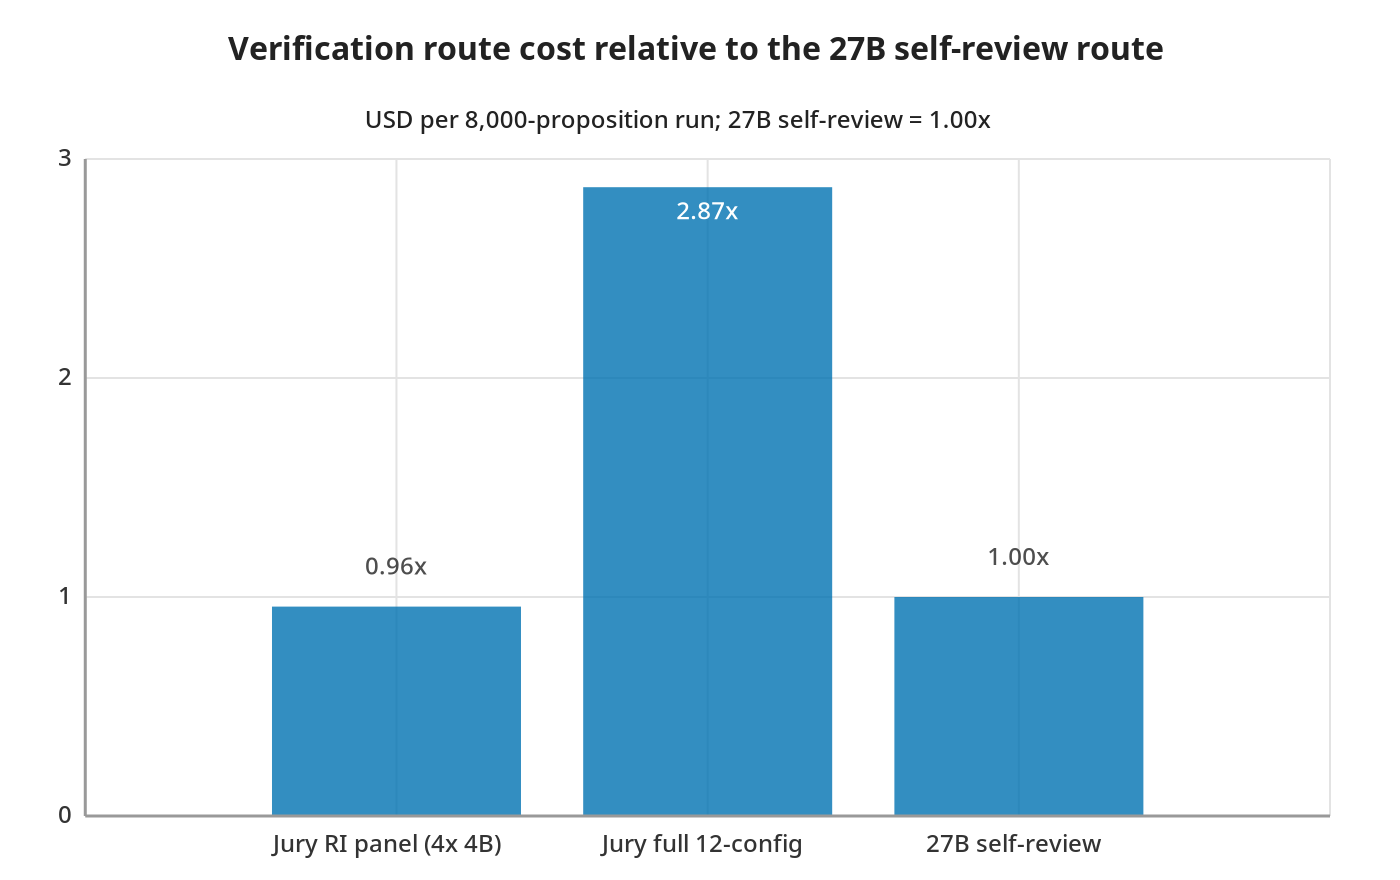
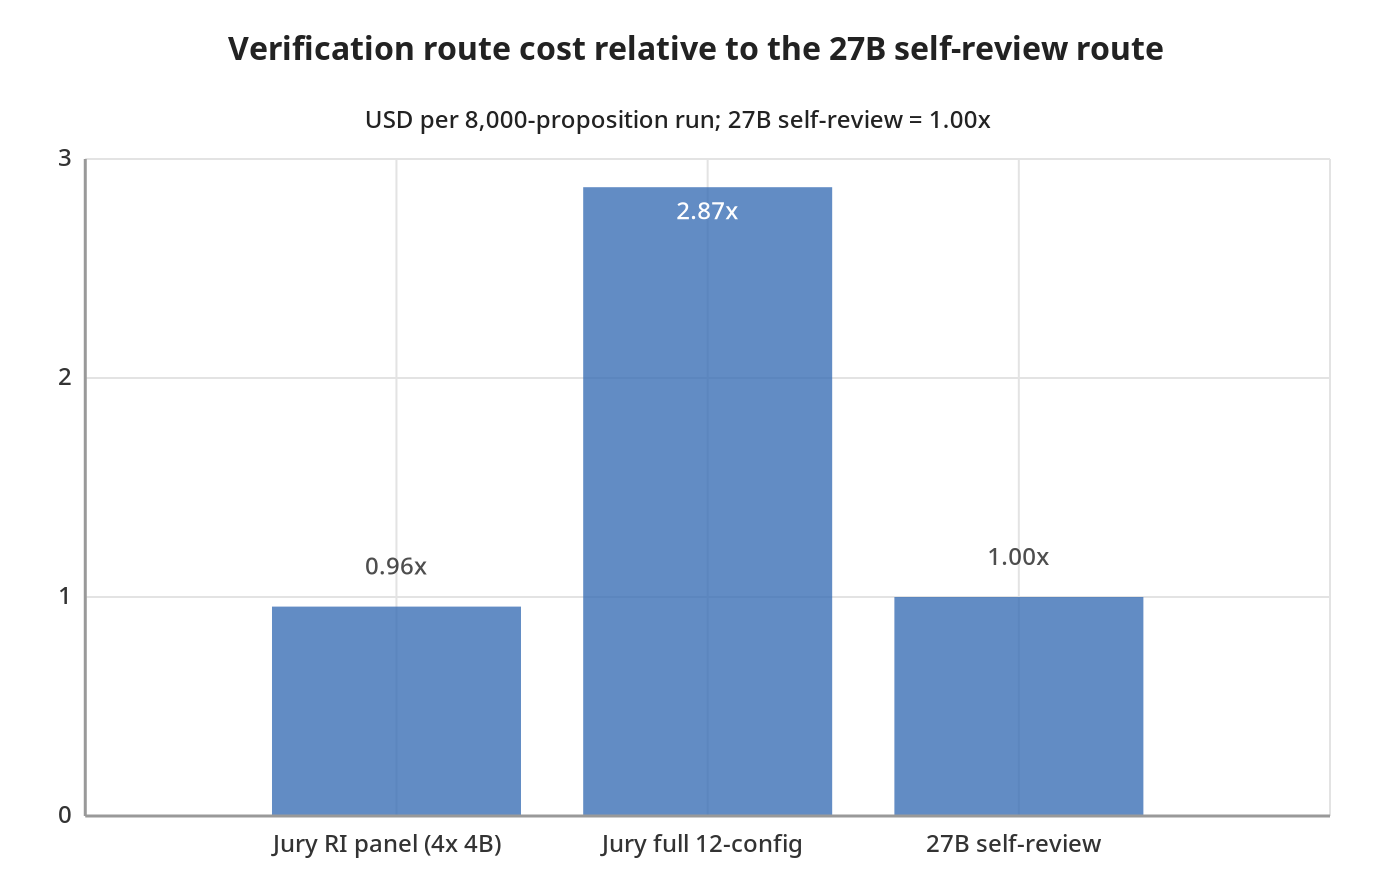
Figures PDF-only (injected at build); uniform color on cost figure

Changed region(s): [[0.1843, 0.2148, 0.8293, 0.9511]]

diff --git a/tools/paper_pdf.py b/tools/paper_pdf.py
@@ -113,10 +113,43 @@ hr { border: none; border-top: 0.6pt solid #ccc; margin: 1.4em 0; }
 """
 
 
+# Figures are PDF-only: injected at build time, never in draft-v4.md.
+# Each entry is (unique anchor in the md source, figure html to insert after it).
+FIGURES = [
+    (
+        "| full | base_zeroshot (ref) | 0.17434 | 0.3325 | +0.15816 | (not computed; ref arm) | ref |",
+        """<div class="figure">
+<img src="figures/fig1-cells.png" alt="Calibrated delta over the frozen bar, all six pre-registered cells">
+<div class="figcap">Figure 1. Calibrated delta over the frozen model-free bar, all six pre-registered cells (v2, 8,000 claims, all fits frozen from v1). Dashed line: the pre-registered GO threshold (+0.02 nats). All four test cells are green; the base_zeroshot cells are the reference arm. Numbers: eval_v2.json.</div>
+</div>""",
+    ),
+    (
+        "**Verdict: PASS (branch b).**",
+        """<div class="figure">
+<img src="figures/fig3-fcr.png" alt="False-claim rate by verification route">
+<div class="figcap">Figure 2. False-claim rate by verification route on the 591 gateable claims. Both routes co-fail the same two unsupported claims (0/2 catch); the bootstrap CI of the difference, [0.0, 5e-05], spans zero, so the gate passes via the registered branch (b), cost, not catch. Numbers: gate_analysis.json.</div>
+</div>""",
+    ),
+    (
+        "excluded from the comparison, as registered.",
+        """<div class="figure">
+<img src="figures/fig2-cost.png" alt="Verification route cost relative to the 27B self-review route">
+<div class="figcap">Figure 3. Verification-route cost per 8,000 claims (USD, token-proxy pricing), relative to the 27B self-review route (1.00x). The full 12-config panel is the reference run, not the gate arm; the gate arm is the reason_included panel at 0.96x (0.781x length-adjusted). Numbers: gate_analysis.json.</div>
+</div>""",
+    ),
+]
+
+
 def main() -> None:
     text = SRC.read_text(encoding="utf-8")
     # Drop the DRAFT NOTES comment block (and any other html comments).
     text = re.sub(r"<!--.*?-->", "", text, flags=re.S).strip()
+
+    # Inject the PDF-only figures after their unique anchors.
+    for anchor, fig in FIGURES:
+        if anchor not in text:
+            raise SystemExit(f"figure anchor not found: {anchor[:60]!r}")
+        text = text.replace(anchor, f"{anchor}\n\n{fig}", 1)
 
     # Split off the title block: everything before the first "## " heading.
     idx = text.index("\n## ")

diff --git a/paper/draft-v4.md b/paper/draft-v4.md
@@ -13,7 +13,7 @@
       reserved (DOI 404s until published) - publish the Zenodo record before submission.
     * 2080 Ti row in §6 is an estimate, not a measurement (kept labeled as such).
     * Affiliation set: Main Lobe Labs (both authors, single affiliation marker).
-    * Figures 1-3 added (charted, paper/figures/): six-cell deltas, FCR by route, route cost.
+    * Figures 1-3 (charted, paper/figures/) are PDF-only: injected by tools/paper_pdf.py at build time, not in this .md.
   - All numbers below were copied verbatim from:
     * runs/2026-08-28-v2-jury/eval_v2.json
     * runs/2026-08-29-v2-27b/gate_analysis.json
@@ -211,11 +211,6 @@ On the full 8,000-claim v2 corpus, with every fit frozen from v1:
 | full | votes_only | 0.17865 | 0.3325 | +0.15385 | (excl. 0) | GO |
 | full | base_zeroshot (ref) | 0.17434 | 0.3325 | +0.15816 | (not computed; ref arm) | ref |
 
-<div class="figure">
-<img src="figures/fig1-cells.png" alt="Calibrated delta over the frozen bar, all six pre-registered cells">
-<div class="figcap">Figure 1. Calibrated delta over the frozen model-free bar, all six pre-registered cells (v2, 8,000 claims, all fits frozen from v1). Dashed line: the pre-registered GO threshold (+0.02 nats). All four test cells are green; the base_zeroshot cells are the reference arm. Numbers: eval_v2.json.</div>
-</div>
-
 **P8: TRUE.** All four pre-registered test cells are green. (The registration calls the full bar a continuity check with no separate GO, while its decision-matrix line applies the same GO rule to every cell; the artifact computes go = true for both full-bar cells, and we report that label.) The headline delta is an order of magnitude beyond the gate and beyond the v1 scale: the v1 smoke test of the identical tool on frozen v1 data (content-only bar) gave +0.093 reason_included / +0.097 votes_only; the frozen calibration, applied to a corpus 6.7× larger and 6 months wider, more than doubles the headline margin. Raw (uncalibrated) EM log-loss is 0.30796 / 0.38314 / 0.34636 for the three arms, still below both bars, but the registered claim is about the calibrated instrument, per rule R2.
 
 Co-primary within-article AUROC (P(PASS) vs truth = PASS): EM calibrated 0.9951 / 0.9948 / 0.991 (ri / vo / base) versus 0.999 (content bar) and 0.9988 (full bar); ranking is near-saturated for both sides on this corpus, which is why the pre-registered primary is the calibrated log-loss, not AUROC. The fitted EM prior for the headline arm is PASS 0.5247 / FAIL 0.219 / NOT_STATED 0.2563.
@@ -256,11 +251,6 @@ Gating applies only to claims with a non-zero unique pool tie (591 of 600; 9 tie
 
 Branch (a) is **false**; branch (b) is **true**: the two false-claim rates are statistically indistinguishable (Δ ≈ 0.002 percentage points, against a 10-point tolerance), and the jury route is strictly cheaper. **Verdict: PASS (branch b).**
 
-<div class="figure">
-<img src="figures/fig3-fcr.png" alt="False-claim rate by verification route">
-<div class="figcap">Figure 2. False-claim rate by verification route on the 591 gateable claims. Both routes co-fail the same two unsupported claims (0/2 catch); the bootstrap CI of the difference, [0.0, 5e-05], spans zero, so the gate passes via the registered branch (b), cost, not catch. Numbers: gate_analysis.json.</div>
-</div>
-
 The catch of 0/2 is the honest core of the system result, and it deserves the full record. The two unsupported claims both passed **12–0 across all twelve jury configurations and were also PASS for the 27B**: a genuine co-failure at the boundary of the instrument. Verbatim from the defendant/judge record (`judge.jsonl`):
 
 1. **V2-158, claim 3** (pool tie 13):
@@ -300,11 +290,6 @@ Per 8,000 claims, token-proxy pricing (4B $0.20/$0.60 per 1M in/out; 27B $1.00/$
 | 27B self-review | 8,000 | 4,639,575 (measured) | **$5.3175** |
 
 Ratio (ri panel / self-review): **0.9561**. Because v2 articles are shorter than v1's (mean 1,419 vs 1,927 characters), the v1-measured per-vote token proxy overstates jury cost; length-adjusted (566.2 tok/vote) the ratio falls to **0.781**. Both keep branch (b). The defendant and judge calls (800, shared by both routes) are excluded from the comparison, as registered.
-
-<div class="figure">
-<img src="figures/fig2-cost.png" alt="Verification route cost relative to the 27B self-review route">
-<div class="figcap">Figure 3. Verification-route cost per 8,000 claims (USD, token-proxy pricing), relative to the 27B self-review route (1.00x). The full 12-config panel is the reference run, not the gate arm; the gate arm is the reason_included panel at 0.96x (0.781x length-adjusted). Numbers: gate_analysis.json.</div>
-</div>
 
 ---
 
